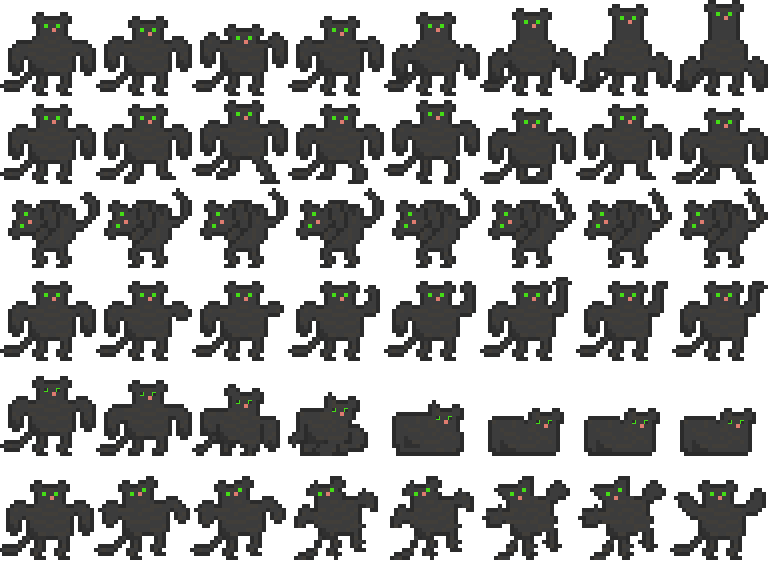
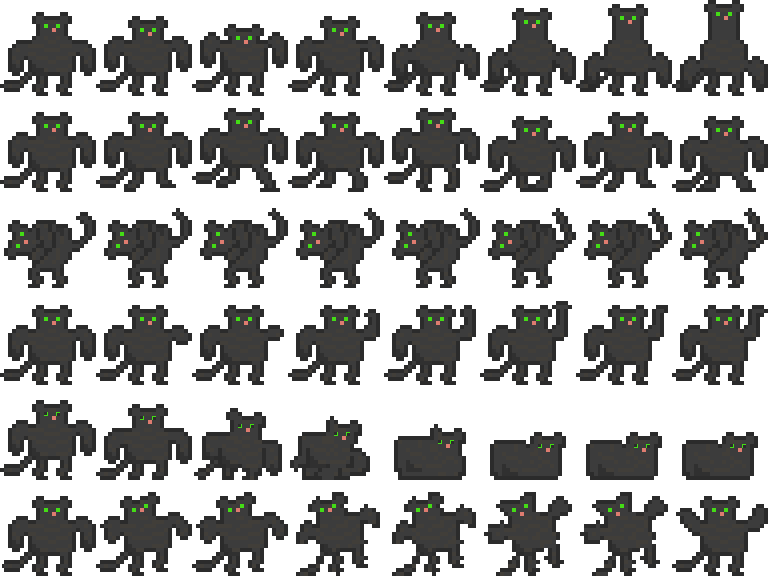
Add walking animations

diff --git a/src/players.cpp b/src/players.cpp
@@ -3,6 +3,7 @@
 Players::Players(float player_width, float player_height, float player_x, float player_y)
 {
 	std::cout << player_width << player_height;
+	player.setOrigin(player_width / 2, player_height / 2);
 	player.setPosition(sf::Vector2f(player_x, player_y));
 
 	if (!bop_texture.loadFromFile("content/bop-tilesheet.png"))
@@ -23,11 +24,12 @@ void Players::drawTo(sf::RenderWindow& window)
 	window.draw(player);
 }
 
-void Players::movePlayers(int player_speed, bool& player_tile_collision, float& dt)
+void Players::movePlayers(int player_speed, bool& player_tile_collision, float& dt, int& player_tile_row)
 {
 	velocity.x = 0;
+	player_tile_row = 0;
 
-	// velocity.y += gravity;
+	// If player is colliding with tile set gravity to zero
 	if (player_tile_collision)
 	{
 		velocity.y = 0;
@@ -44,33 +46,38 @@ void Players::movePlayers(int player_speed, bool& player_tile_collision, float& 
 	if (sf::Keyboard::isKeyPressed(sf::Keyboard::D))
 	{
 		velocity.x = player_speed;
+		player_tile_row = 1;
+		player.setScale(1, 1);
 	}
 
 	if (sf::Keyboard::isKeyPressed(sf::Keyboard::A))
 	{
 		velocity.x = -player_speed;
+		player_tile_row = 1;
+		player.setScale(-1, 1);
 	}
 
 	player.move(velocity * dt);
 }
 
-void Players::collision(float screen_width, int player_width)
+void Players::collision(float screen_width, int player_width, int player_height)
 {
 
+	// Get sides of player
 	player_top = player.getPosition().y;
-	player_bottom = player.getPosition().y + 96;
+	player_bottom = player.getPosition().y + player_height / 2;
 	player_left = player.getPosition().x;
-	player_right = player.getPosition().x + 96;
+	player_right = player.getPosition().x + player_width / 2;
 
 	//  If player goes beyond screen borders, set player position
 	// to just before screen border
 	if (player_right > screen_width)
 	{
-		player.setPosition(screen_width - player_width, player.getPosition().y);
+		player.setPosition(screen_width - player_width / 2, player.getPosition().y);
 	}
-	else if (player_left < 0)
+	else if (player_left < 0 + player_width / 2)
 	{
-		player.setPosition(0, player.getPosition().y);
+		player.setPosition(0 + player_width / 2, player.getPosition().y);
 	}
 }
 

diff --git a/src/game.cpp b/src/game.cpp
@@ -56,6 +56,7 @@ void game(sf::RenderWindow& window, float& screen_width, float& screen_height)
 	float player_y = 100;
 	int player_width = 96;
 	int player_height = 96;
+	int player_tile_row = 0;
 	Players player_1(player_height, player_width, player_x, player_y);
 
 	// Create map
@@ -150,9 +151,9 @@ void game(sf::RenderWindow& window, float& screen_width, float& screen_height)
 
 			// Draw player 1
 			player_1.drawTo(window);
-			player_1.movePlayers(player_speed, player_tile_collision, dt);
-			player_1.collision(screen_width, player_width);
-			player_1.animateBop(0, dt);
+			player_1.movePlayers(player_speed, player_tile_collision, dt, player_tile_row);
+			player_1.collision(screen_width, player_width, player_height);
+			player_1.animateBop(player_tile_row, dt);
 
 			// Draw foreground
 			left_foreground.drawTo(window);

diff --git a/src/players.hpp b/src/players.hpp
@@ -8,8 +8,8 @@ class Players
 public:
 	Players(float player_width, float player_height, float player_x, float player_y);
 	void drawTo(sf::RenderWindow& window);
-	void movePlayers(int player_speed, bool& player_tile_collision, float& dt);
-	void collision(float screen_width, int player_width);
+	void movePlayers(int player_speed, bool& player_tile_collision, float& dt, int& player_tile_row);
+	void collision(float screen_width, int player_width, int player_height);
 	void animateBop(int row, float& dt);
 	sf::Sprite player;
 
@@ -26,7 +26,7 @@ private:
 	sf::Texture bop_texture;
 	sf::IntRect bop_uv_rect;
 	float total_time;
-	float switch_time = 0.05f;
+	float switch_time = 0.08f;
 	sf::Vector2u image_count = sf::Vector2u(8, 1);
 	sf::Vector2u current_image;
 	int jump_power = 800;

diff --git a/src/world.cpp b/src/world.cpp
@@ -53,6 +53,6 @@ void World::playerCollision(Players& player_rect, bool& player_tile_collision)
 	if (player_bottom > tile_top)
 	{
 		player_tile_collision = true;
-		player_rect.player.setPosition(sf::Vector2f(player_rect.player.getPosition().x, tile.getPosition().y - 96));
+		player_rect.player.setPosition(sf::Vector2f(player_rect.player.getPosition().x, tile.getPosition().y - 96 / 2));
 	}
 }
